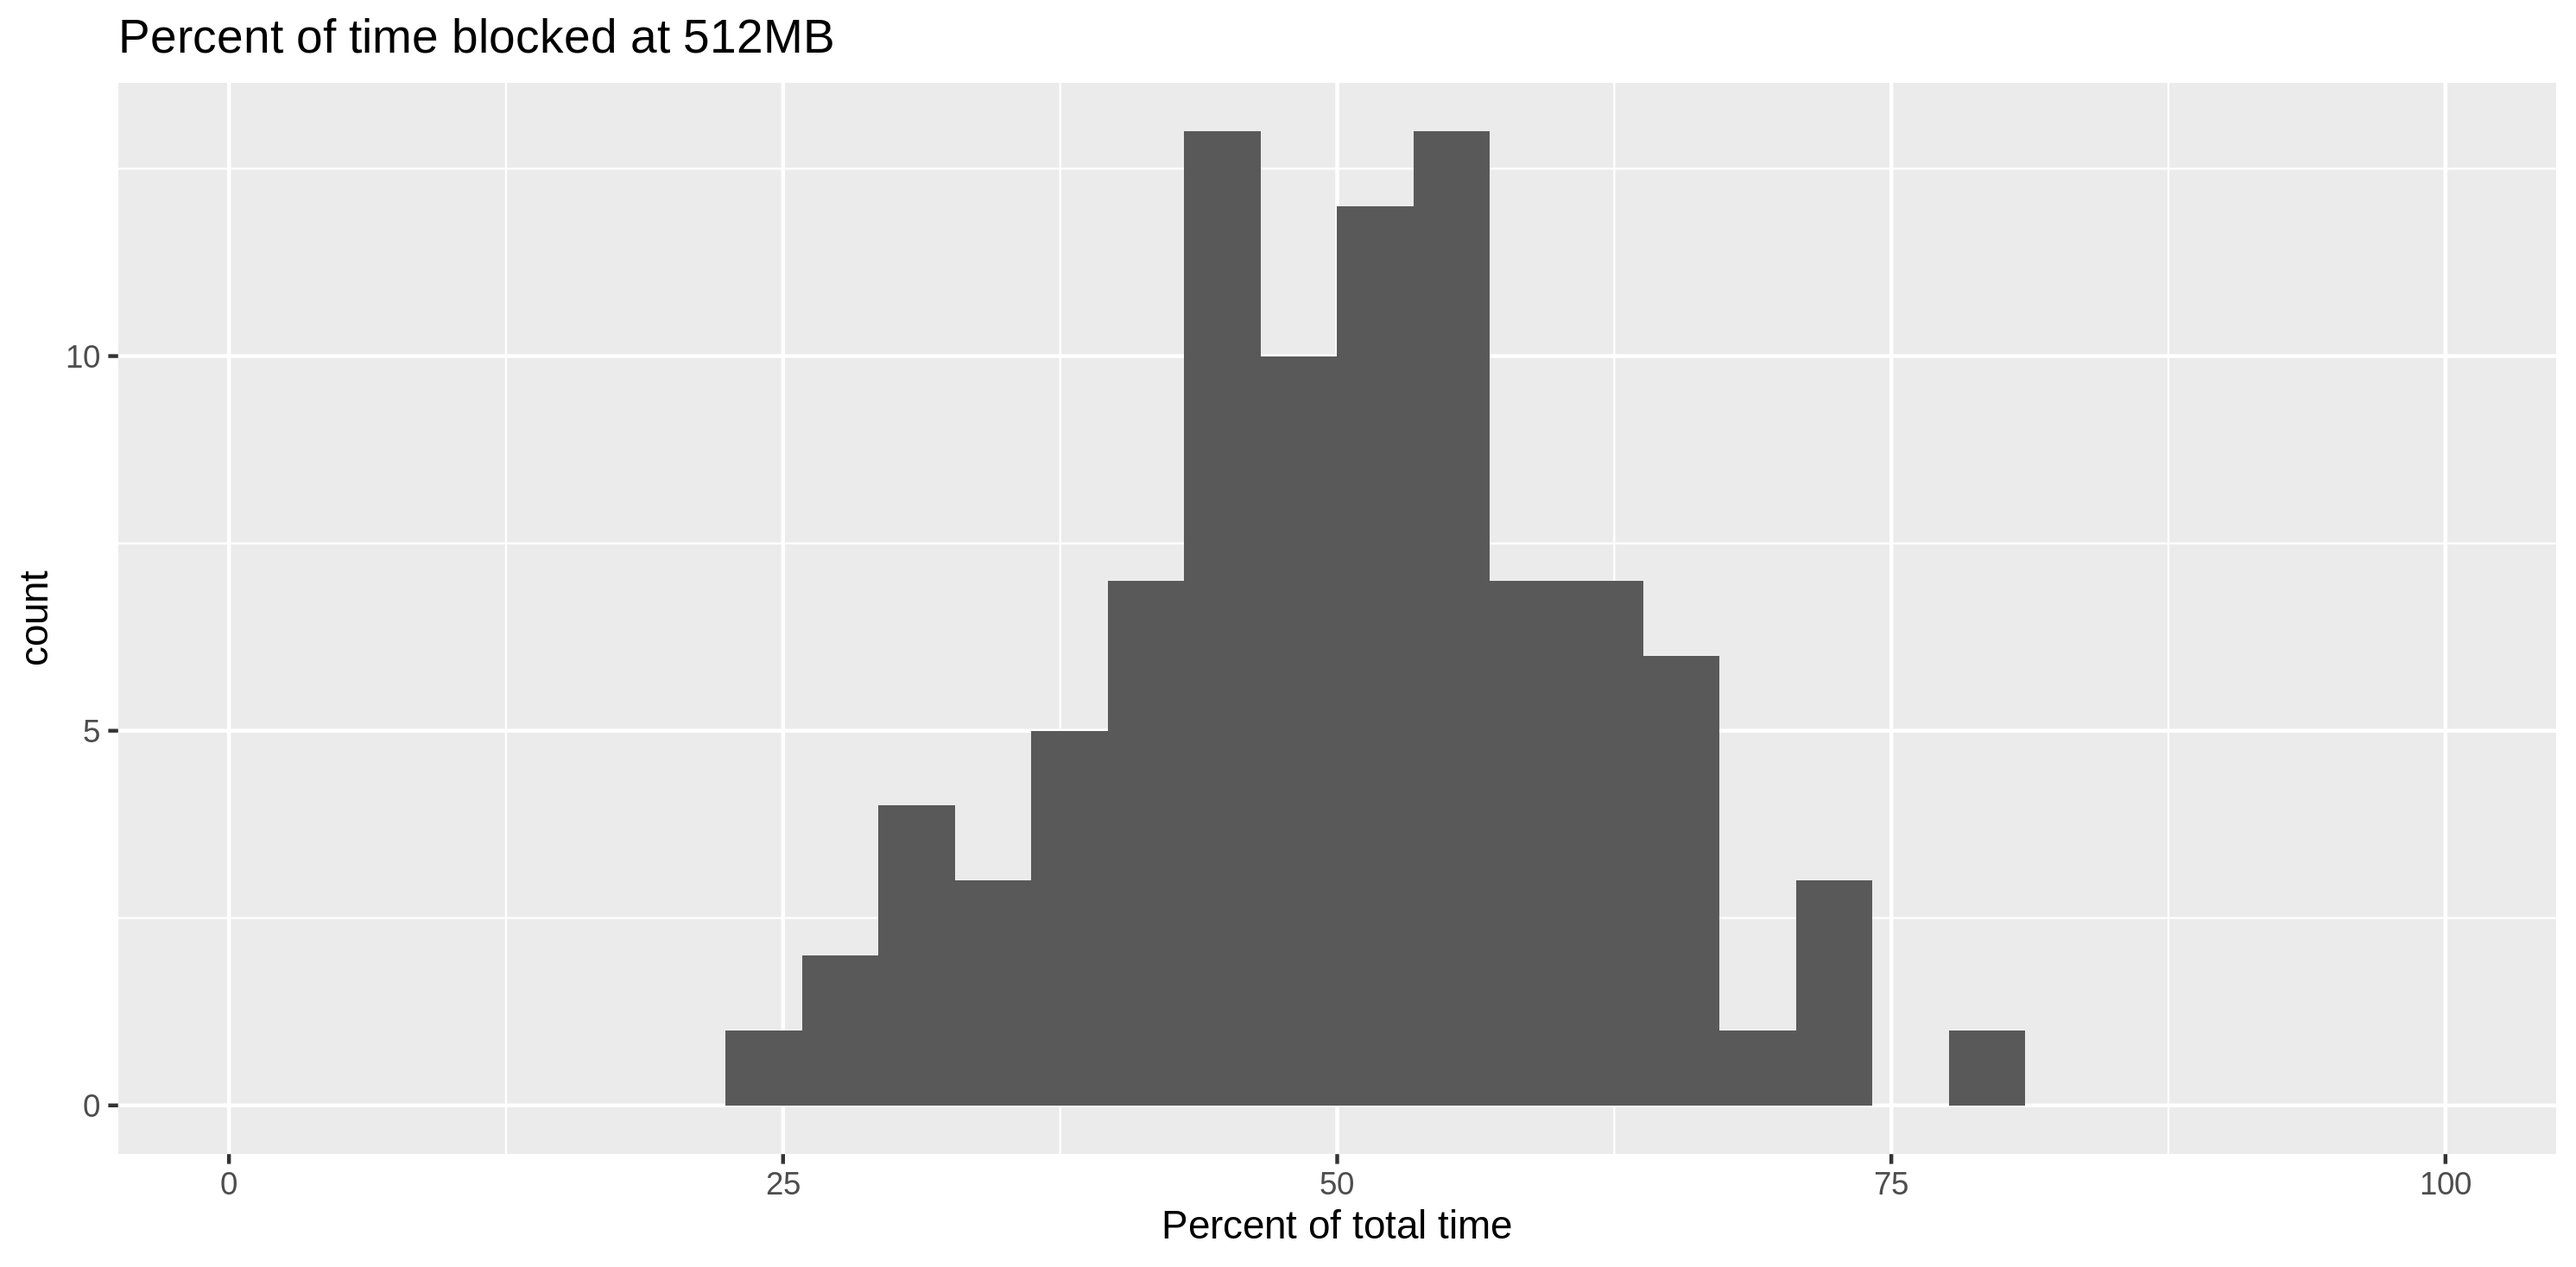
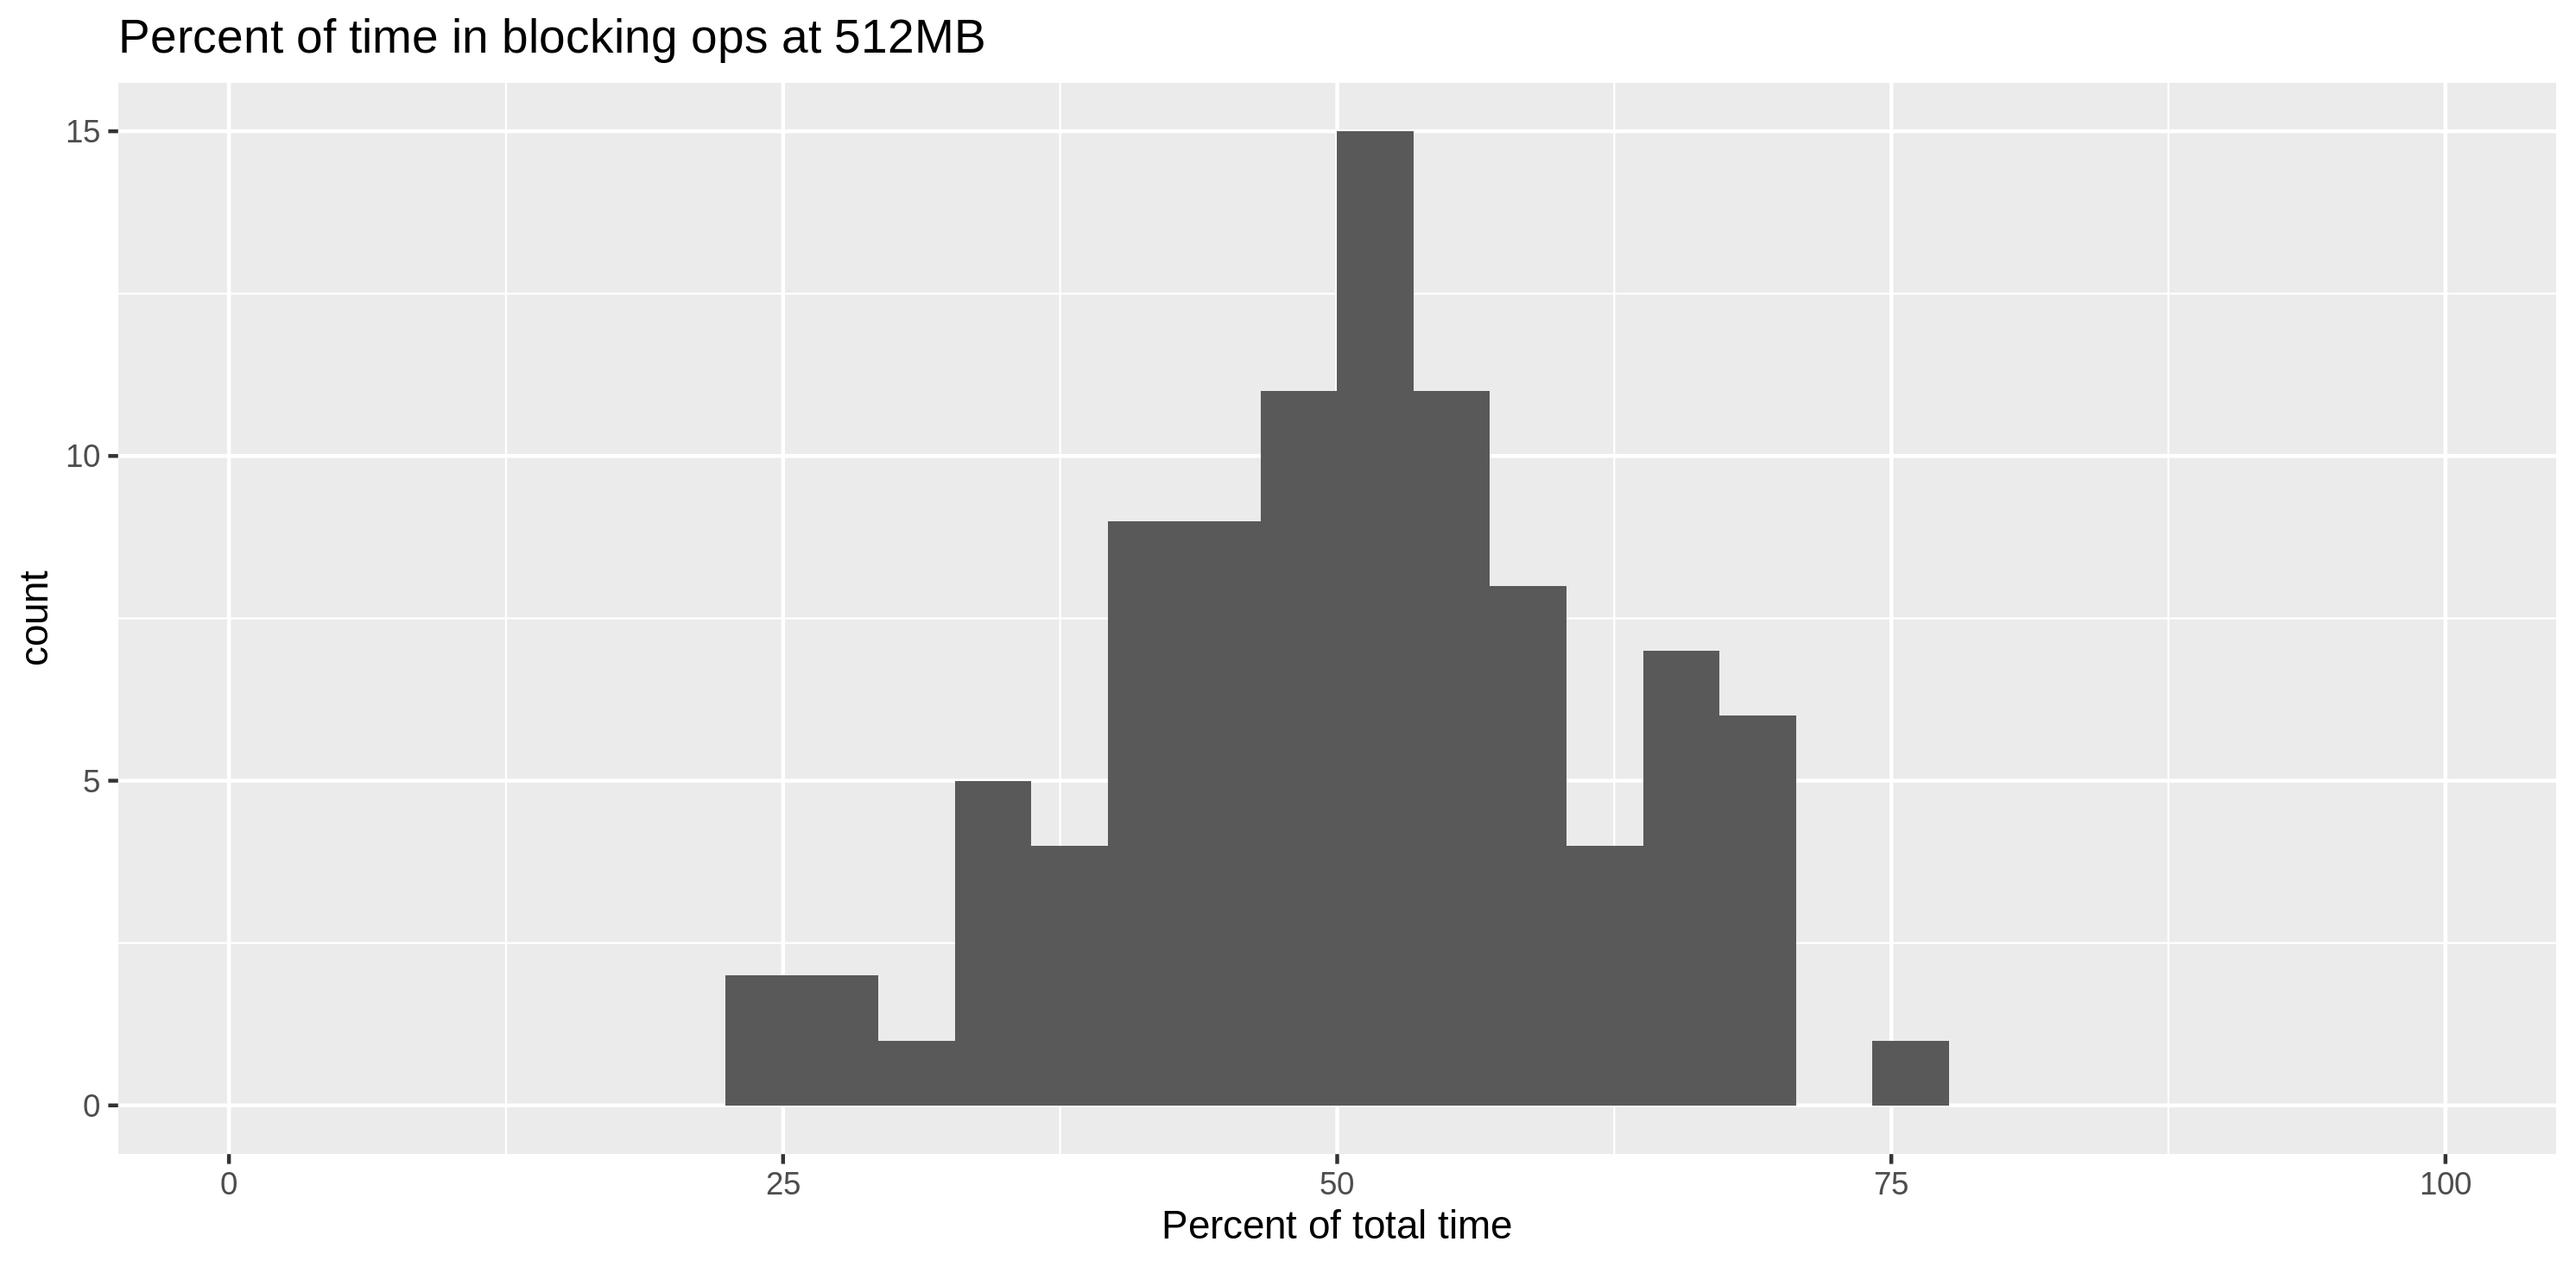
More docs

diff --git a/README.md b/README.md
@@ -1,18 +1,31 @@
-# Experiment: Lambda computing vs RAM
+# Experiment: Lambda computing performance vs RAM
 
 Execute a Lambda, with specified compute/blocking mixes, with varying
-RAM.
+Lambda RAM settings.
 
 ## Usage
 
 Head to [`lambda`](lambda) and look at [`Makefile`](lambda/Makefile)
 to get the test Lambda going.
 
-Consider the compute/blocking mix distributions as specified in
-[`spec.json`](spec.json).  That spec probably has about twice as much
-blocking time as CPU-constrained work.
+Consider the compute/blocking operations distributions as specified in
+[`spec.json`](spec.json).  Use a [gamma
+distribution](https://en.wikipedia.org/wiki/Gamma_distribution) to
+specify how long (in milliseconds) a simulated blocking operation
+takes.  Use [Poisson
+distributions](https://en.wikipedia.org/wiki/Poisson_distribution) to
+specify how many non-blocking operations each execution has and how
+many work units each of those operations performs.  A work unit is
+specified by `StepKeys`, which is the number of generates keys in a
+map, and `StepRounds`, which is the number of map
+serialization/deserialization round trips performed in a work unit.
 
-The run some tests:
+At 512MB, the example spec probably has about equal amounts of
+computing and blocking.
+
+After editing `spec.json`, [run](run.sh) a test that executes the
+Lambda multiple times for various RAM settings.
+
 
 ```Shell
 (cd call-lambda && make && ./run.sh)
@@ -33,7 +46,7 @@ ggplot(d, aes(worked,ms,color=mb,group=mb)) +
 	geom_smooth(method=lm) + 
 	scale_colour_gradient(low="red",high="blue") +
 	labs(title="Work vs Elapsed time by RAM",
-	     subtitle="Blocking time is the same as compute time at 512MB.")
+	     subtitle="Blocking time is about the same as compute time at 512MB.")
 ggsave("eff-by-ram.png")
 
 
@@ -41,7 +54,7 @@ d %>% filter(mb==512) %>%
 	mutate(percent_blocked=100*block_time/ms) %>% 
 	ggplot(aes(percent_blocked)) + 
 	geom_histogram(bin_width=5) + 
-	labs(title="Percent of time blocked at 512MB",x="Percent of total time") + 
+	labs(title="Percent of time in blocking ops at 512MB",x="Percent of total time") + 
 	xlim(0,100)
 ggsave("blocking.png")
 
@@ -81,5 +94,25 @@ The predicted mean latencies (milliseconds) by RAM tier:
 7  896 1.4655402  58.74068
 8 1024 0.4233949  16.97020
 ```
+
+For the example job, a 128GB Lambda is about 20 times slower that a
+1GB Lambda.  For comparison, for jobs that do half as much computation
+but the same about of blocking, a 128GB Lambda is about three times
+slower than a 1GB Lambda.
+
+```
+    mb        e        ms
+1  128 7.381373 153.71710
+2  256 6.646208 138.40728
+3  384 5.911043 123.09747
+4  512 5.175878 107.78766
+5  640 4.440713  92.47785
+6  768 3.705548  77.16804
+7  896 2.970383  61.85823
+8 1024 2.235218  46.54842
+```
+
+Of course, the level of expected latency, in the context of a specific
+application, is an important consideration.
 
 ![predict](predict.png)
